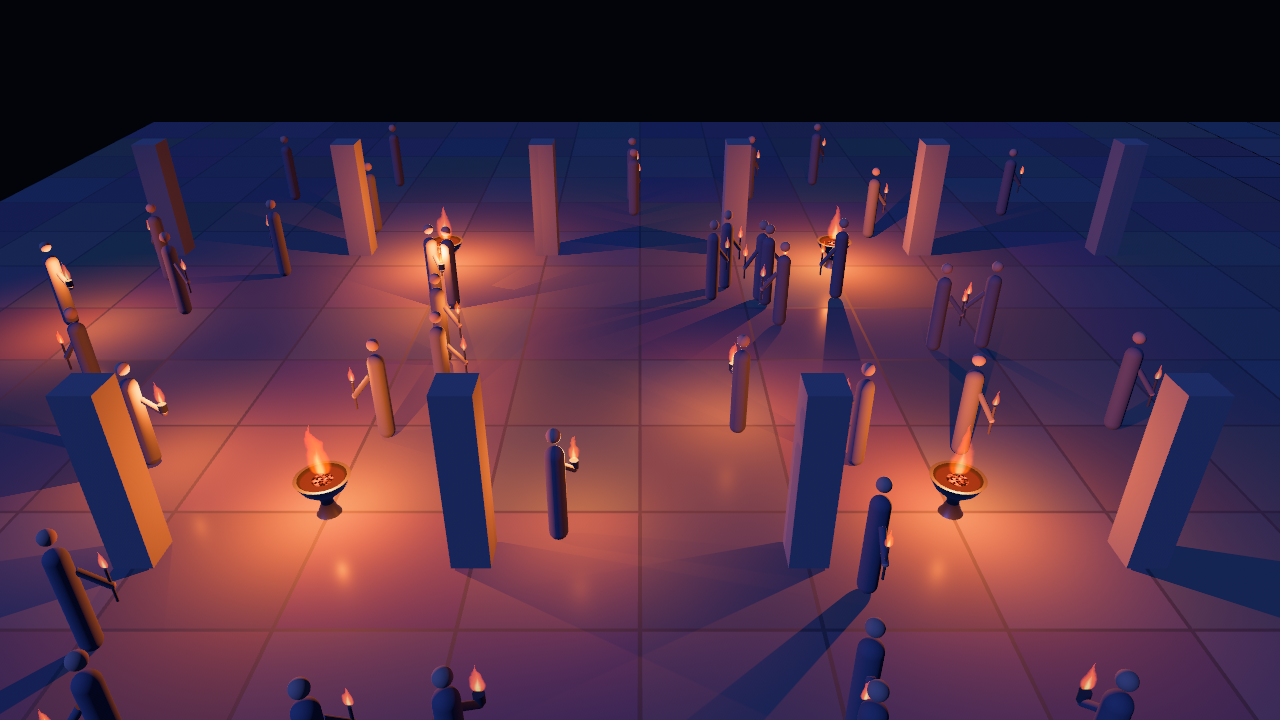
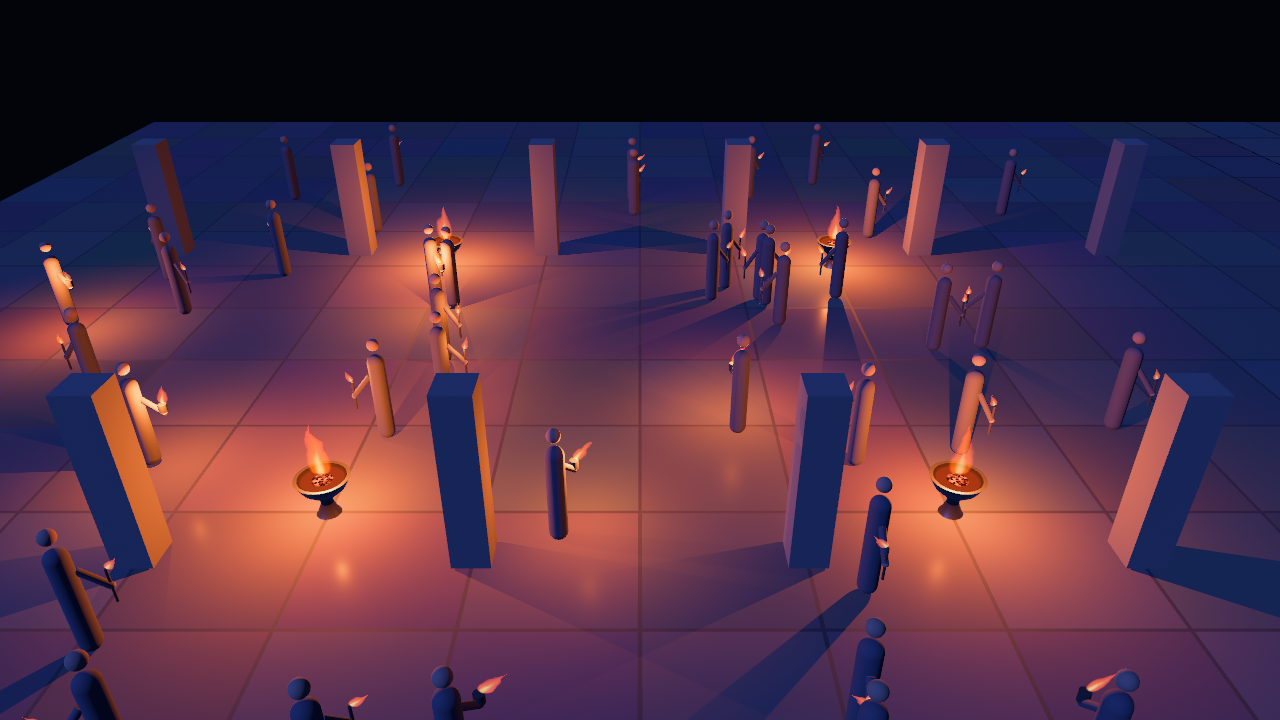
Docs: courtyard.gif and courtyard.png re-taken with the bearers' flames leaning behind them

diff --git a/docs/loop-log.md b/docs/loop-log.md
@@ -5518,12 +5518,12 @@ Checklist, before → after (`~/l286/findings.md`, removed): key-to-fill, fallof
 
 Bench (CPU, interleaved, load average 19-34): `bench_lights` (no `FlameSite`, so nothing it runs was touched) `min_us` 337-348 against 342-360, `p50_us` 527-543 against 533-569; `bench_flames` 5 000 torches standing still `p50_ms` 2.38-2.55 against 2.30-2.50 (the tracker's one position compare, about 0.02 µs a fire a frame, inside the noise); with all 5 000 walking (`BENCH_MOVING=1.4`, new) the lean itself (`BENCH_MOTION=1` against `0`) costs up to 0.3 ms, about 0.06 µs a moving fire. No GPU change (no shader touched).
 
-Media: `docs/media/carried.png` (new, 1272 × 354, six frames of a carried torch, the captions burned in; the README caption's angles are measured off the frames), `docs/media/showcase.gif` **re-encoded** (the bearers' flames lean in it; the same recipe, 60 frames at 30 fps, 400 px, 1.86 MB against 1.87), the README's hero caption says so. The relight GIF and the stills are unchanged (a fire that is lit or put out in them is a fire that stands still; `courtyard.gif` shows walking bearers and is **stale**: it was captured before this and still shows them upright, at 640 px, 3.2 MB, not re-taken this pass).
+Media: `docs/media/carried.png` (new, 1272 × 354, six frames of a carried torch, the captions burned in; the README caption's angles are measured off the frames), `docs/media/showcase.gif` **re-encoded** (the bearers' flames lean in it; the same recipe, 60 frames at 30 fps, 400 px, 1.86 MB against 1.87), the README's hero caption says so. `docs/media/courtyard.gif` (640 px, 48 frames, 3.2 MB) and `docs/media/courtyard.png` (1280 × 720, frame 600) are **re-taken** from the same recipes (they show walking bearers). The relight GIF and the other stills are unchanged (a fire that is lit or put out in them is a fire that stands still).
 
 Commits on `loop/iter-286`: `da70d0f` (research), `d8cd3c4` (`FlameMotion`, `FlameVelocity`, the model, the tracker, `update_flames` and the pool on one relative air, tests, `LIGHTS_MOTION`, `LIGHTS_WALK`, `BENCH_MOVING`), `5f298e3` (README section and figure, the hero GIF, CHANGELOG, AGENTS, DEMOS, the note's measurements), then this entry. No sibling-repo commit.
 
 Traps found. (1) **A site spawned this frame has the identity `GlobalTransform`**, and the tracker runs in `Update` on last frame's propagation: the step from the origin to its real place is a spawn, not a walk (pinned by a test; the first two frames seed only). (2) **A system that returns early on a paused frame still advances its `last_run`**, so a skip written as `!global.is_changed()` would lose a move made meanwhile: the skip compares positions. (3) `( cmd & )` background jobs in tool calls are unreliable (one capture script ran, a second silently did not): use the tool's own async bash.
 
-Ranked candidates for the next pass: (1) the courtyard's braziers onto `Fire` and `FuelBed`, then re-take `courtyard.gif` (stale: it shows upright bearers) with the showcase; (2) an own-light `Fire` only if a consumer asks (the pool already gives one fire shadows); (3) the bearers' arm swing in the courtyard (a sway the tracker already follows, and the one case here not captured) and, for a host, a per-fire `gain` if asked; (4) a yellow-hot seam and per-lump cooling for the bed; (5) #7, only with a reference image of a specific defect.
+Ranked candidates for the next pass: (1) the courtyard's braziers onto `Fire` and `FuelBed` (the hero and `courtyard.gif` are re-taken again then); (2) an own-light `Fire` only if a consumer asks (the pool already gives one fire shadows); (3) the bearers' arm swing in the courtyard (a sway the tracker already follows, and the one case here not captured) and, for a host, a per-fire `gain` if asked; (4) a yellow-hot seam and per-lump cooling for the bed; (5) #7, only with a reference image of a specific defect.
 
 Release: see below.

diff --git a/docs/DEMOS.md b/docs/DEMOS.md
@@ -405,8 +405,8 @@ FPS=30 WIDTH=640 \
 sequence (frame 0 is black: the pipelines are still compiling), renumbered from 0 and encoded with `WIDTH=640`. 48 frames,
 3.2 MB. `docs/media/courtyard.png` is the still above. Both were re-taken on 2026-10-28 with the bowl braziers and the
 ember bed (the earlier files showed box braziers and a pink bed), and on 2026-10-30 with every figure casting a shadow,
-the pool's three shadowed lights and the 20 cd/m² sky fill; that capture, and the showcase and relight clips, used
-`LIGHTS_EMBERS=4`.
+the pool's three shadowed lights and the 20 cd/m² sky fill, and on 2026-10-31 with the torch-bearers' flames leaning behind them as they
+walk (`FlameMotion`); that capture, and the showcase and relight clips, used `LIGHTS_EMBERS=4`.
 
 **No default font path, deliberately.** `/System/Library/Fonts/...` exists on exactly one of the
 machines this repo is built on and fails on the others — and it fails in `magick`, after ffmpeg has
